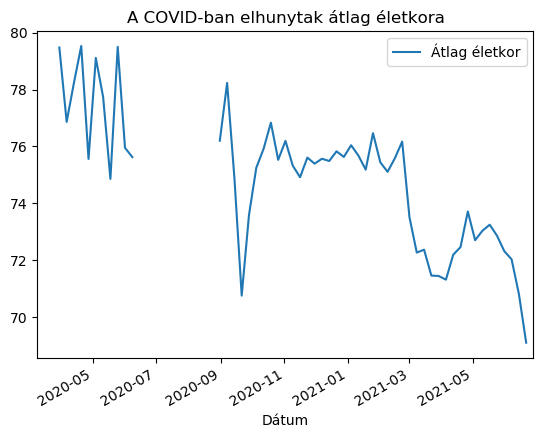
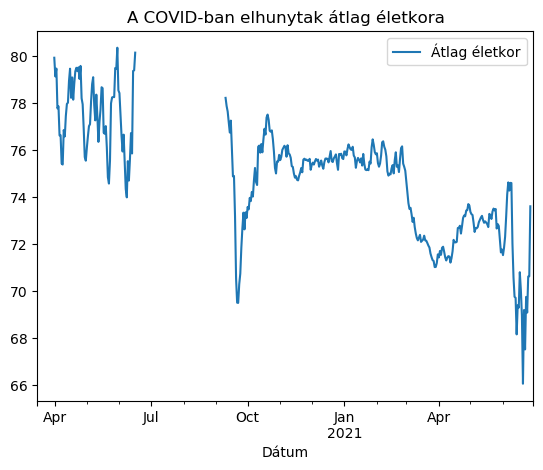
További 7 napos mozgóátlag

diff --git a/kép_elhunytak_átlag_életkora.py b/kép_elhunytak_átlag_életkora.py
@@ -9,21 +9,26 @@ import os
 BASEDIR=os.path.dirname(__file__)
 
 df = pd.read_csv(BASEDIR +"/adatok/elhunytak_datummal.csv", parse_dates=['Dátum'])
+dfgrp = df.groupby('Dátum').agg(['sum', 'count'])
 
-df['Hét kezdet'] = df.apply(lambda row: row['Dátum'] - dt.timedelta(days=row['Dátum'].weekday()), axis=1)
+dfgrp['Elhunyt'] = dfgrp[('Kor', 'count')]
+dfgrp['Életkor összeg'] = dfgrp[('Kor', 'sum')]
+del dfgrp['Sorszám']
+del dfgrp['Nem']
+del dfgrp['Alapbetegségek']
+del dfgrp['Kor']
 
-dfgrp = df.groupby('Hét kezdet')
-dfhetihalott = dfgrp.size().to_frame('Heti elhunytak').reset_index()
+dfok = pd.DataFrame({'Dátum': pd.date_range(start=df['Dátum'].min(), end=df['Dátum'].max())})
 
-dfkor = dfgrp.mean().reset_index()
+dfgrp = pd.merge(dfgrp, dfok, left_on = 'Dátum', right_on = 'Dátum', how="outer").sort_values('Dátum').reset_index().fillna(0)
+del dfgrp['index']
 
-dfkor = pd.merge(dfkor, dfhetihalott, left_on = 'Hét kezdet', right_on = 'Hét kezdet')
+dfossz = dfgrp.rolling(7, center=True).sum()
+dfgrp['Heti elhunyt'] = dfossz['Elhunyt'].fillna(0)
+dfgrp['Átlag életkor'] = dfossz['Életkor összeg'] / dfossz['Elhunyt']
+dfgrp['Átlag életkor'] = dfgrp.apply(lambda row: float(row['Átlag életkor']) if int(row['Heti elhunyt']) >= 13 else np.NaN, axis=1)
 
-dfkor['Átlag életkor'] = dfkor.apply(lambda row: row['Kor'] if int(row['Heti elhunytak']) >= 10 else np.NaN, axis=1)
-
-dfkor = dfkor.rename(columns = {'Hét kezdet': 'Dátum'}, inplace = False)
-
-plot = dfkor.plot(x='Dátum', y='Átlag életkor', title='A COVID-ban elhunytak átlag életkora')
+plot = dfgrp.plot(x='Dátum', y='Átlag életkor', title='A COVID-ban elhunytak átlag életkora')
 
 fig = plot.get_figure()
 fig.savefig(BASEDIR + "/képek/ElhunytakÁtlagÉletkora.png", bbox_inches = "tight")
